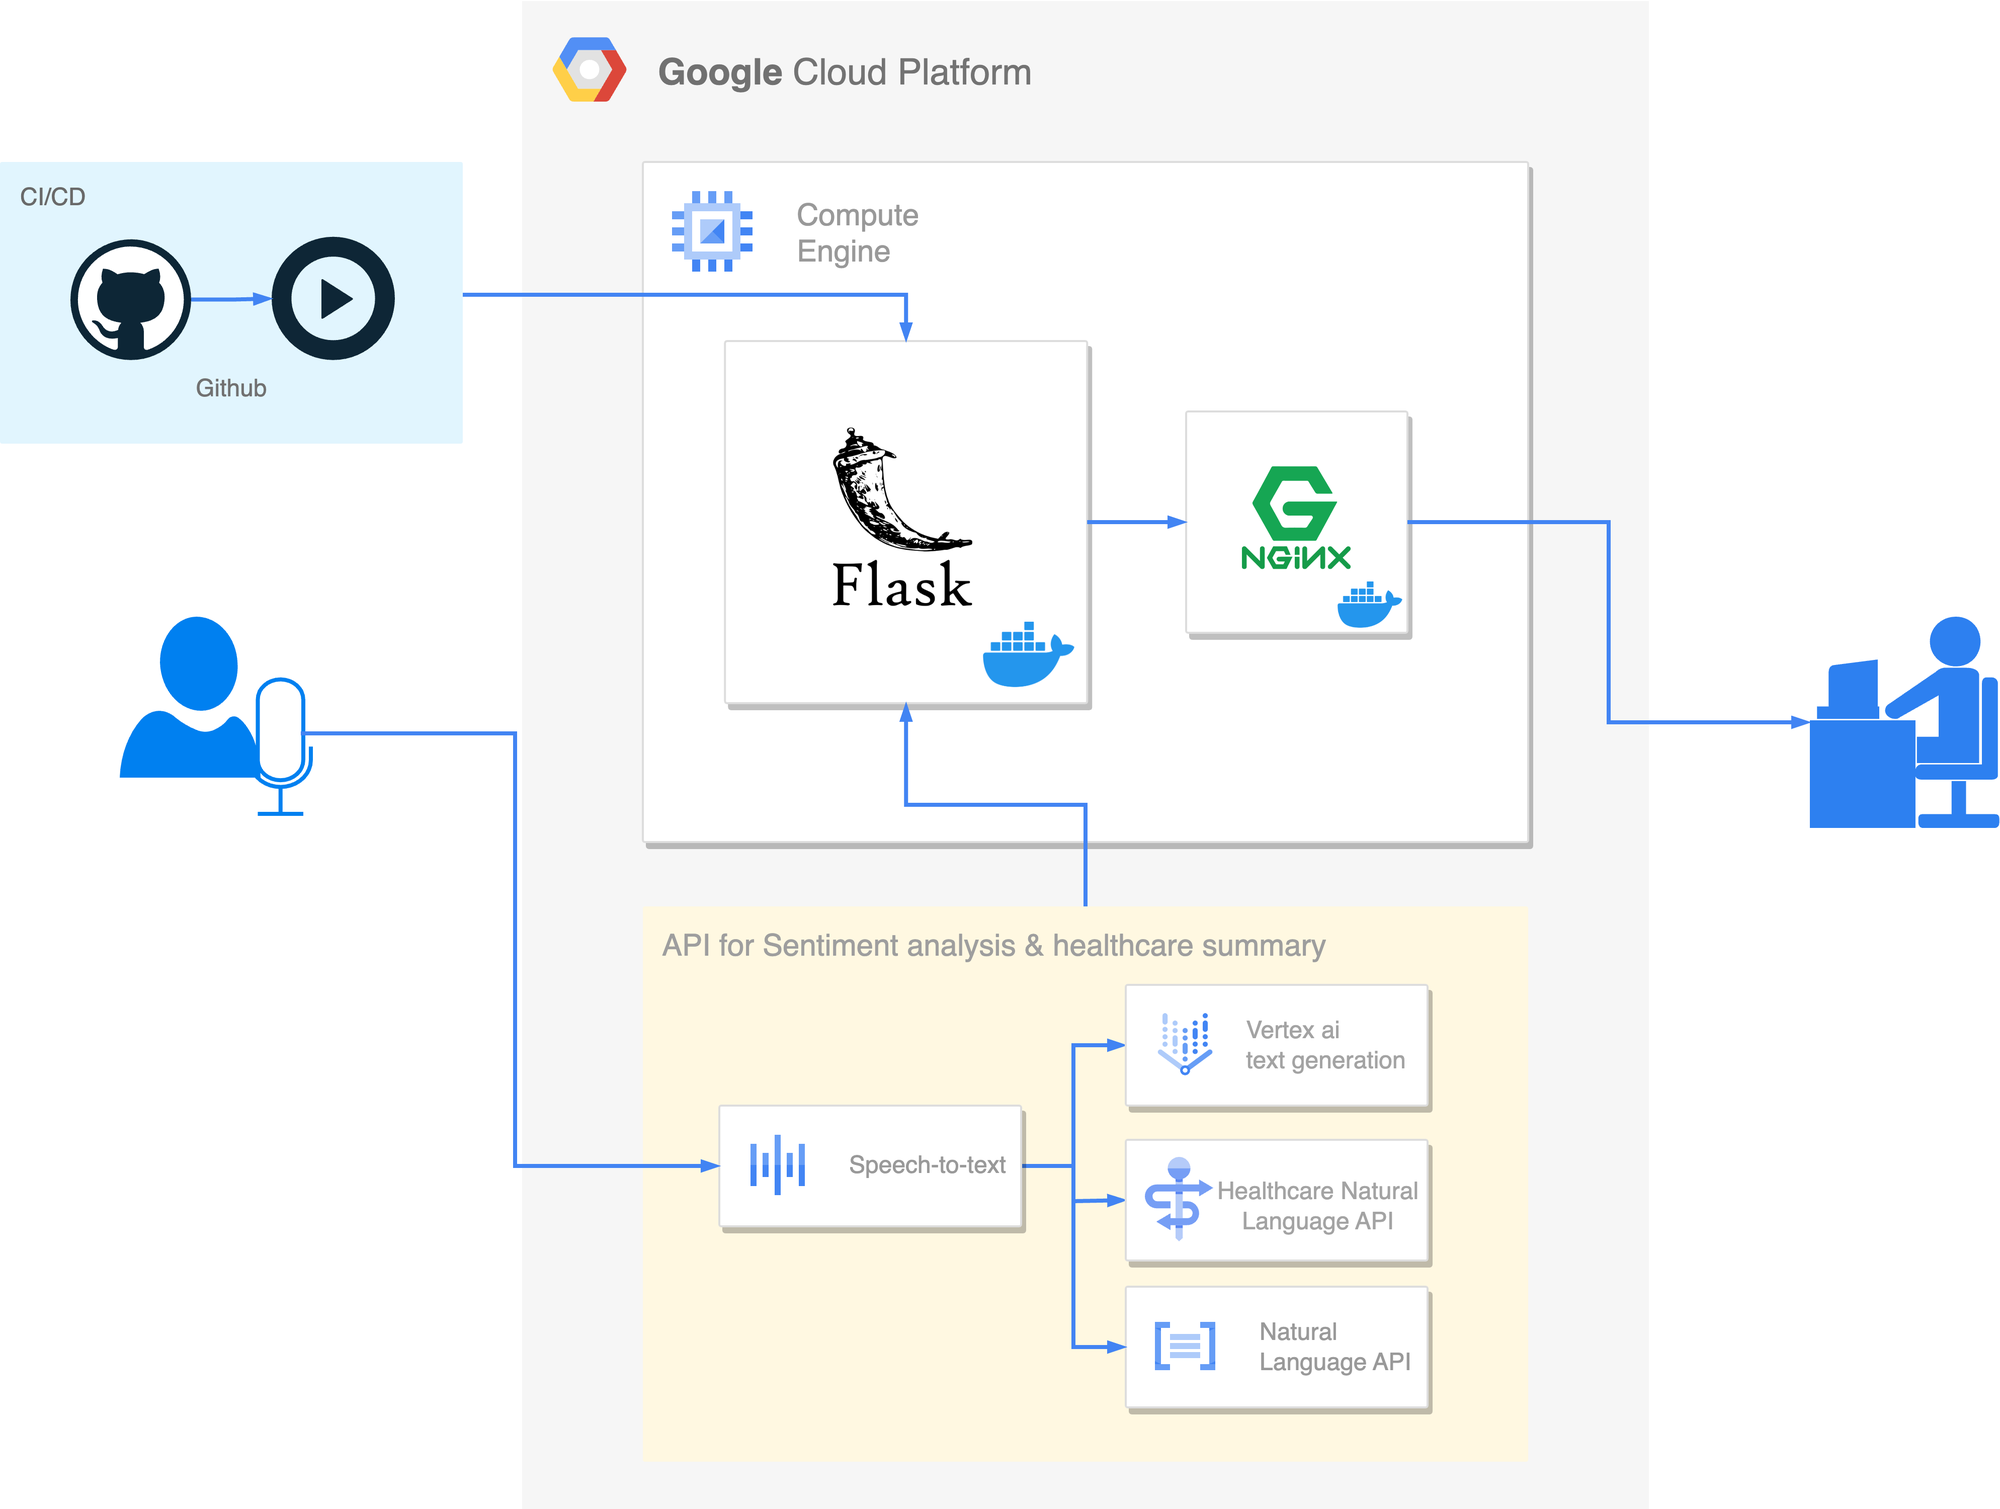
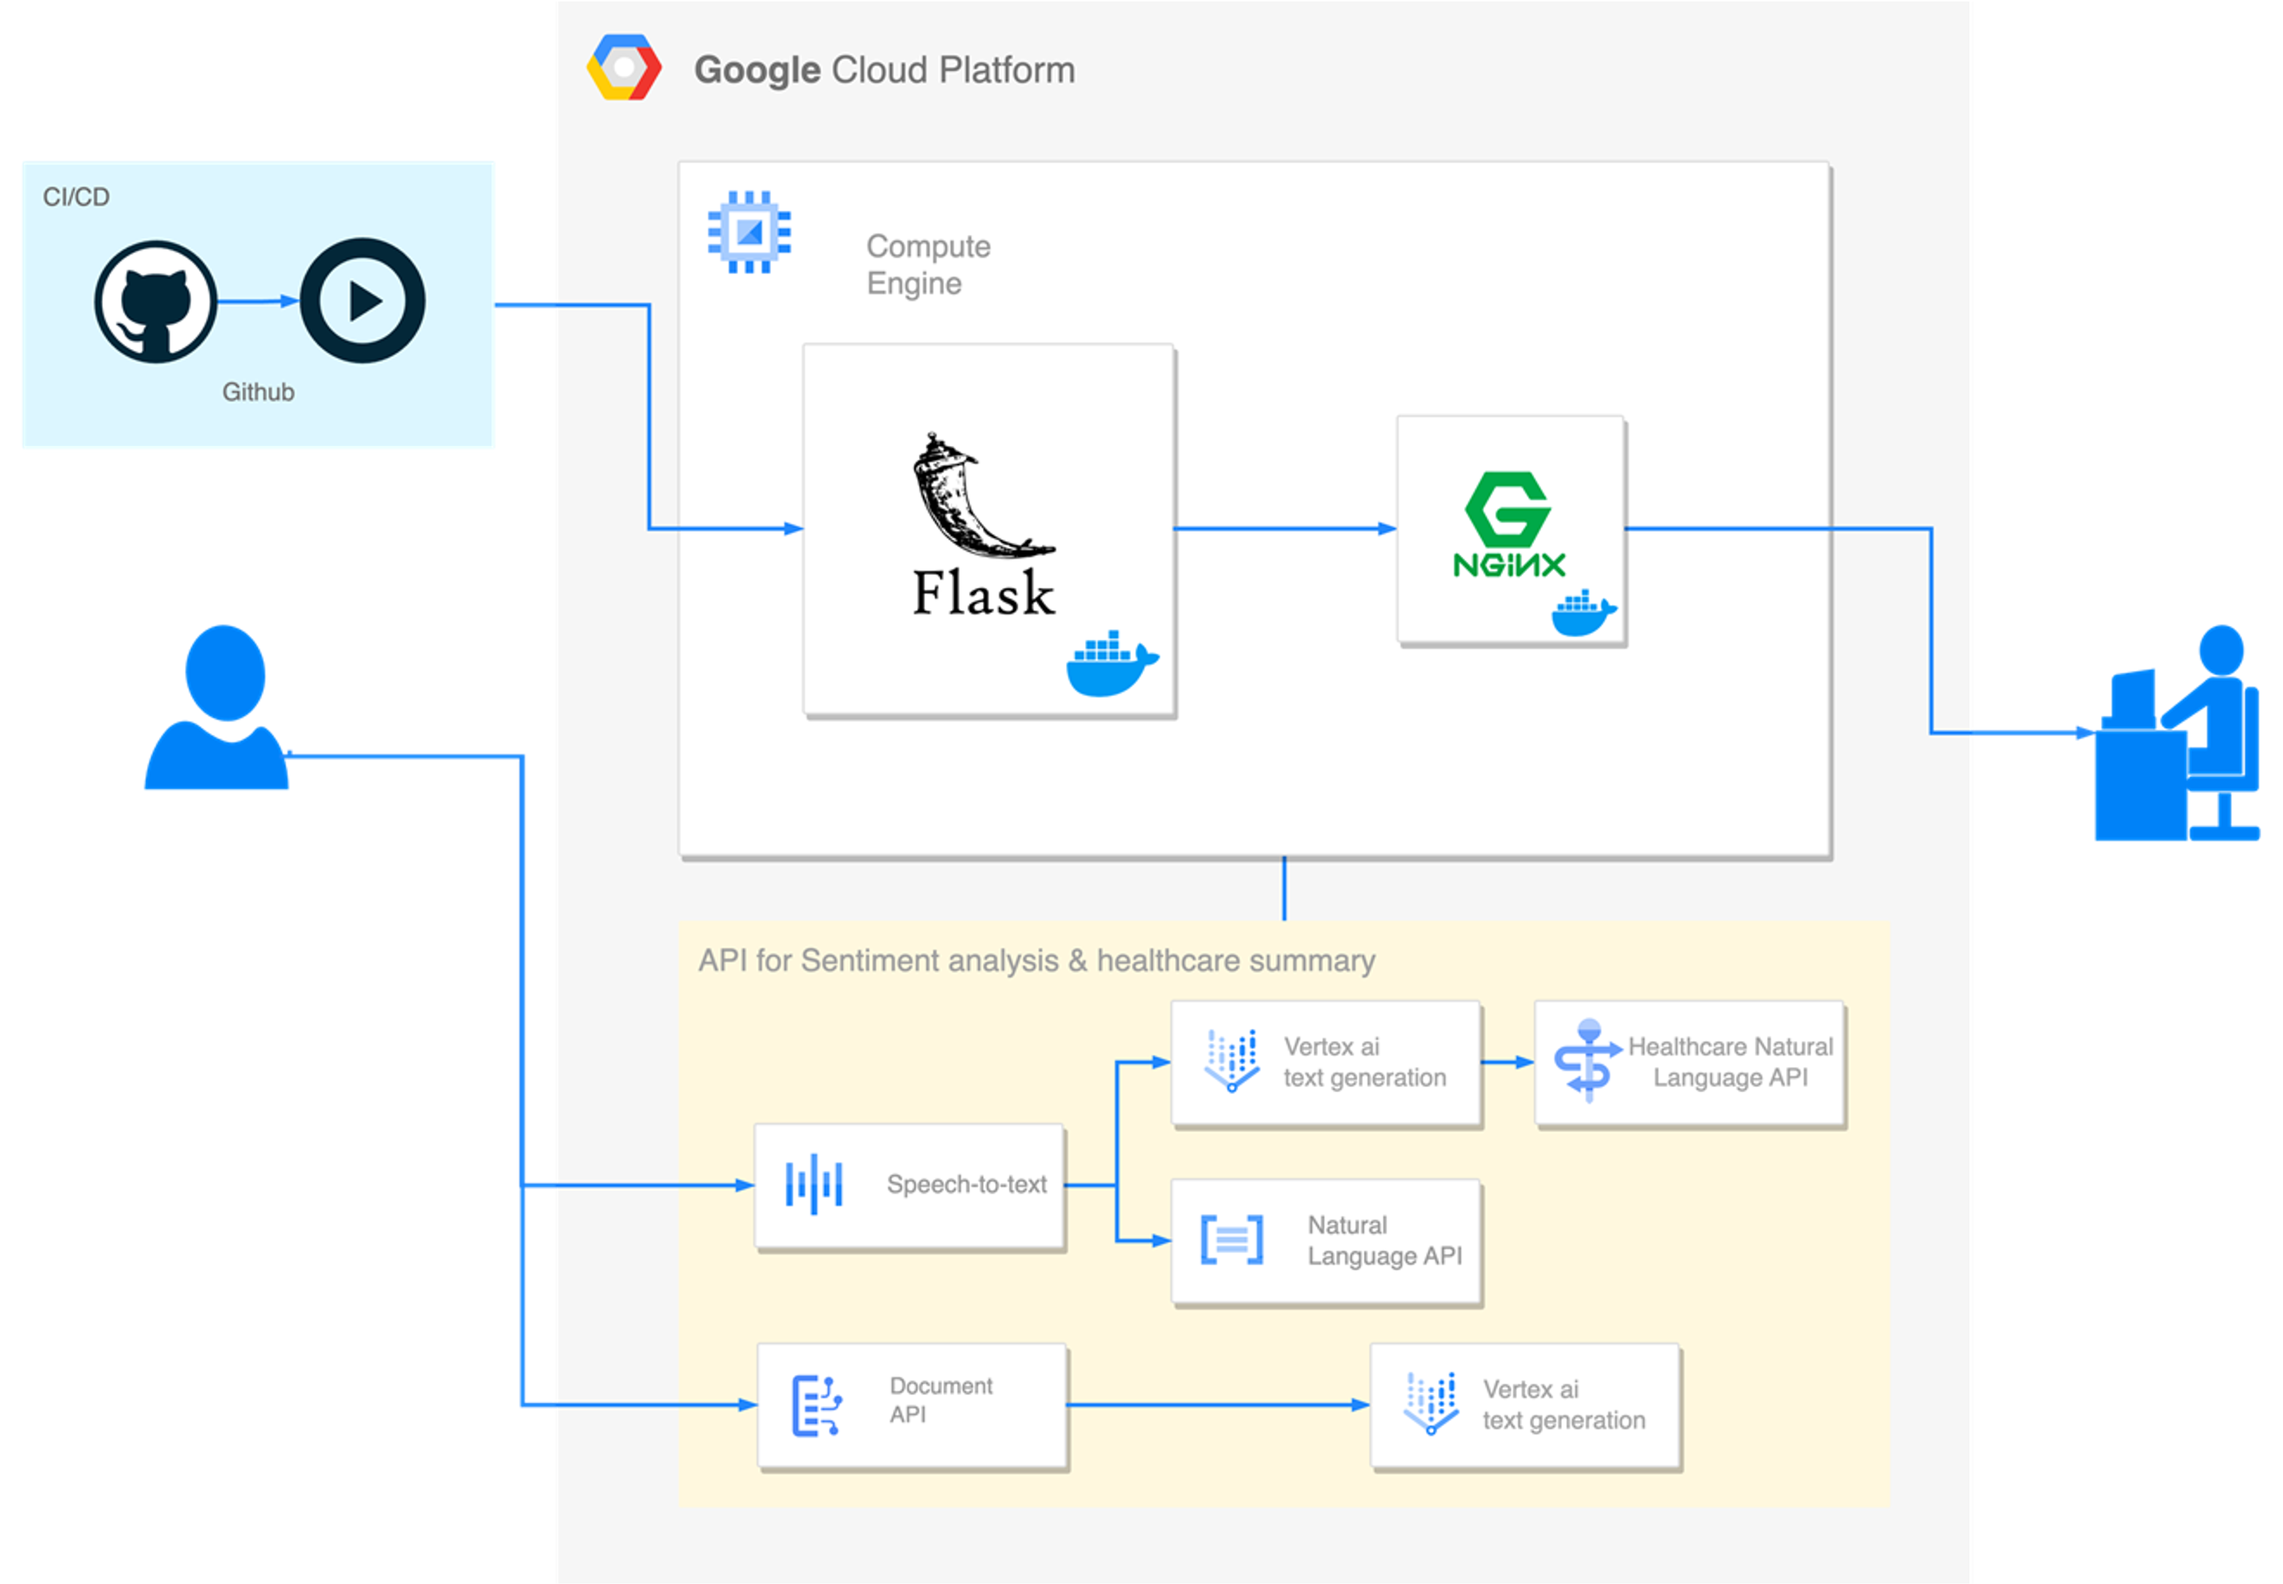
docs: readme 수정

diff --git a/README.md b/README.md
@@ -9,13 +9,15 @@
 ### 개요
 환자가 녹음한 문진 내용을 입력해 감정분석, 요약, 키워드 분석 결과를 보여주는 CDSS.  
 Google Cloud Platform을 적극 활용하여 개발했습니다.     
-(CDSS : 환자로부터 얻어진 임상 정보를 바탕으로 의료인이 질병을 진단하고 치료할 때 의사결정을 도와주는 시스템)
+(CDSS : 환자로부터 얻어진 임상 정보를 바탕으로 의료인이 질병을 진단하고 치료할 때 의사결정을 도와주는 시스템)  
+![기능구조](./assets/기능구조.png)
 
 ### GCP API
 - Speech to Text API
 - Natural Language API
 - Healthcare Natural Language API
 - Vertex Ai Text Generation Model
+- Document Ai API
 
 ### 아키텍쳐
 ![아키텍처](./assets/아키텍처.png)
